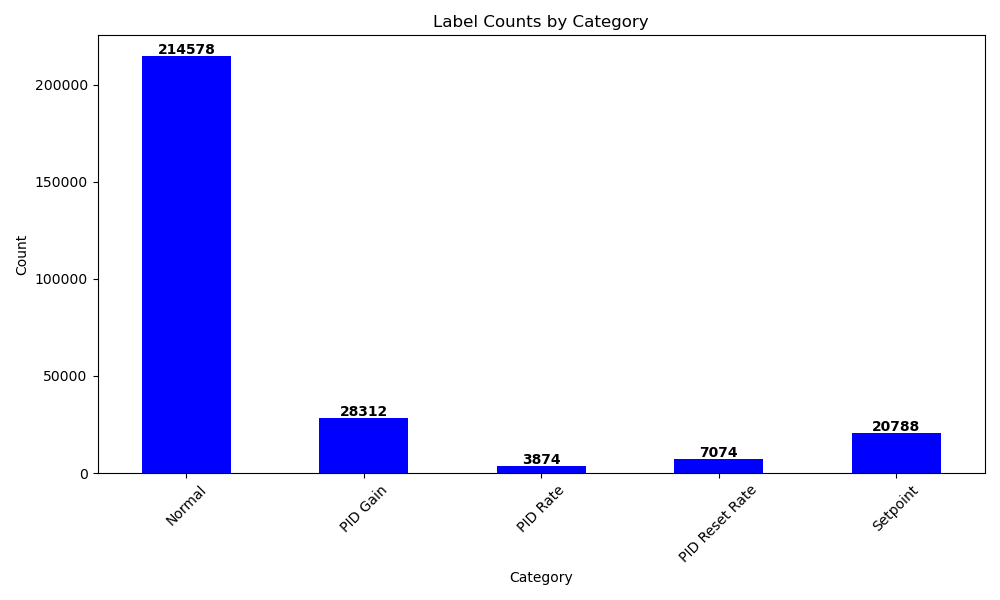
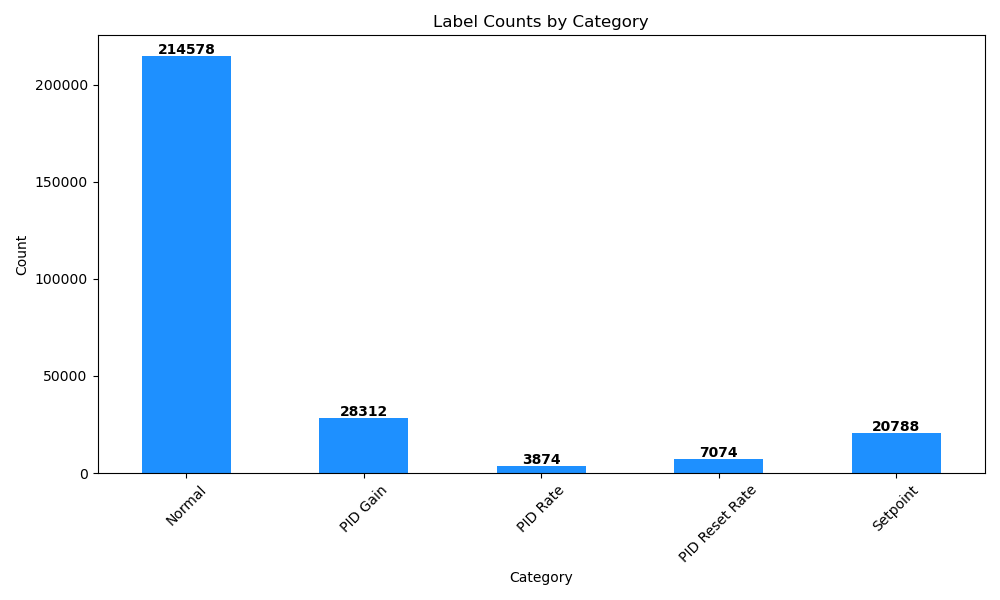
More Figures

diff --git a/ReadEvalLog.py b/ReadEvalLog.py
@@ -6,7 +6,7 @@ import os
 df = pd.read_csv("results/metrics/evaluation_log.csv")
 
 # Filter to only include rows where "Input File" is "NewGasFilteredFunctionMinMax.csv"
-df = df[df["Input File"] == "NewGasFilteredFunctionMinMax.csv"]
+df = df[df["Input File"] == "NewGasFilteredAllMinMax.csv"]
 
 # Handle missing feature selection values
 df["Feature Selection"] = df["Feature Selection"].fillna("None")
@@ -43,7 +43,7 @@ bars = plt.bar(df_best_filtered["Label"], df_best_filtered["F1 Score"], color="r
 for i, bar in enumerate(bars):
     yval = bar.get_height()
     num_features = df_best_filtered.iloc[i]["Number of Features"]
-    plt.text(bar.get_x() + bar.get_width()/2, yval, f"{yval:.5f} ({num_features})", 
+    plt.text(bar.get_x() + bar.get_width()/2, yval, f"{yval:.4f} ({num_features})", 
              ha='center', va='bottom', fontsize=10, fontweight='bold', rotation=45)
 
 # Formatting
@@ -56,4 +56,40 @@ plt.grid(axis="y", linestyle="--", alpha=0.6)
 
 # Save and show
 plt.savefig("results/figures/Best_F1_Score_Rank_Feature_Model2.png", dpi=300, bbox_inches="tight")
+plt.show()
+
+# ------------------- Generate the Second Graph: F1 Score vs. Number of Features ------------------- #
+
+# Ensure "Number of Features" column is numeric
+df["Number of Features"] = pd.to_numeric(df["Number of Features"], errors="coerce")
+
+# Drop any rows where "Number of Features" is NaN
+df = df.dropna(subset=["Number of Features"])
+
+# Find the best F1 score for each unique number of features
+df_best_f1 = df.loc[df.groupby("Number of Features")["F1 Score"].idxmax()]
+
+# Sort by number of features
+df_best_f1 = df_best_f1.sort_values("Number of Features")
+
+# Create a directory for saving figures if it doesn't exist
+os.makedirs("results/figures", exist_ok=True)
+
+# Plot F1 Score vs. Number of Features
+plt.figure(figsize=(12, 8))
+plt.plot(df_best_f1["Number of Features"], df_best_f1["F1 Score"], marker="o", linestyle="-", color="orange", label="F1 Score")
+
+
+# Formatting
+plt.xticks(df_best_f1["Number of Features"])
+plt.yticks([0.8, 0.85, 0.9, 0.95, 1.0])
+plt.ylim(0.8, 1.0)
+plt.xlabel("Number of Features")
+plt.ylabel("F1 Score")
+plt.title("Impact of Feature Reduction on Model Performance")
+plt.grid(True, linestyle="--", alpha=0.6)
+plt.legend()
+
+# Save and show
+plt.savefig("results/figures/F1_Score_vs_Num_Features.png", dpi=300, bbox_inches="tight")
 plt.show()

diff --git a/LabelBarGraph.py b/LabelBarGraph.py
@@ -24,7 +24,7 @@ def plot_label_counts(csv_file, save_path):
 
     # Create the bar chart
     plt.figure(figsize=(10, 6))
-    category_counts.plot(kind='bar', color='blue')
+    category_counts.plot(kind='bar', color='dodgerblue')
 
     # Add the count on top of each bar
     for i, count in enumerate(category_counts):
